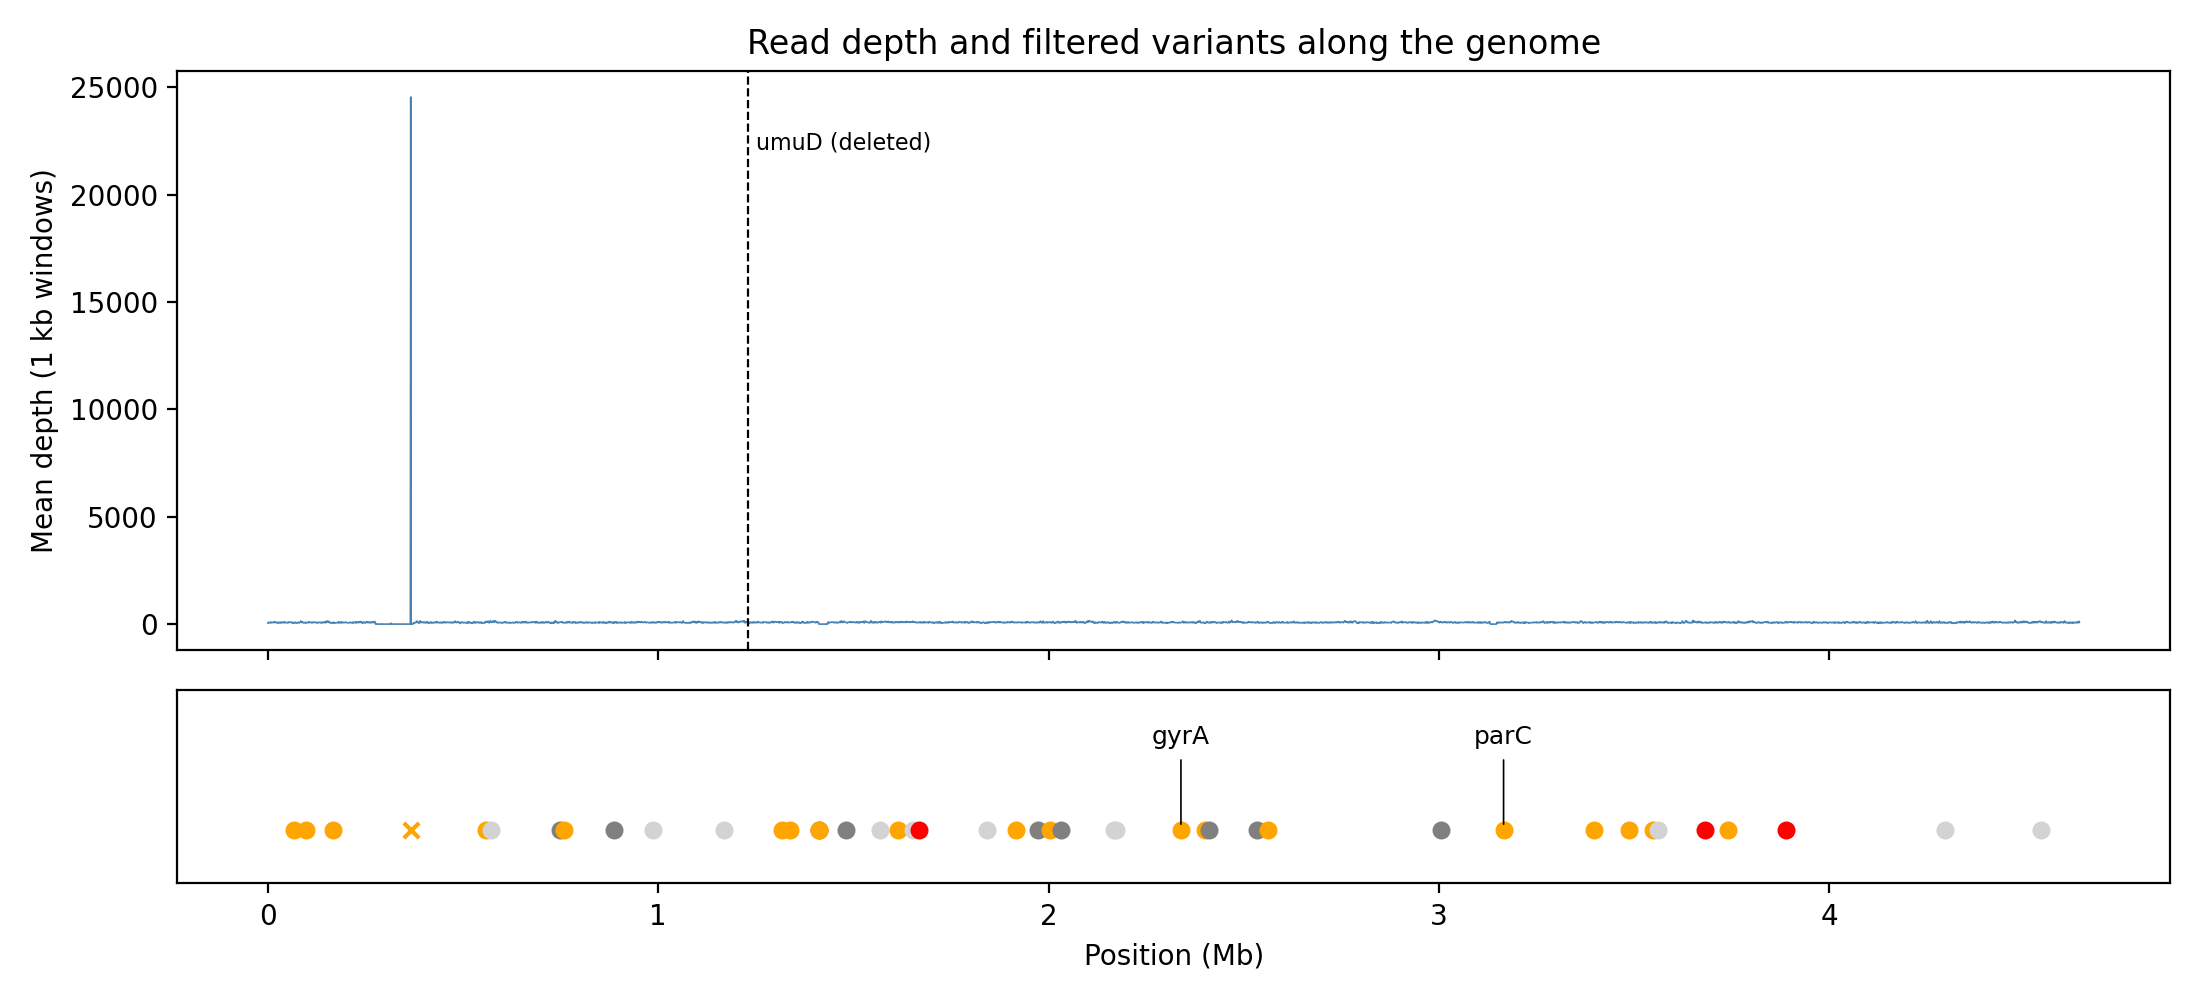
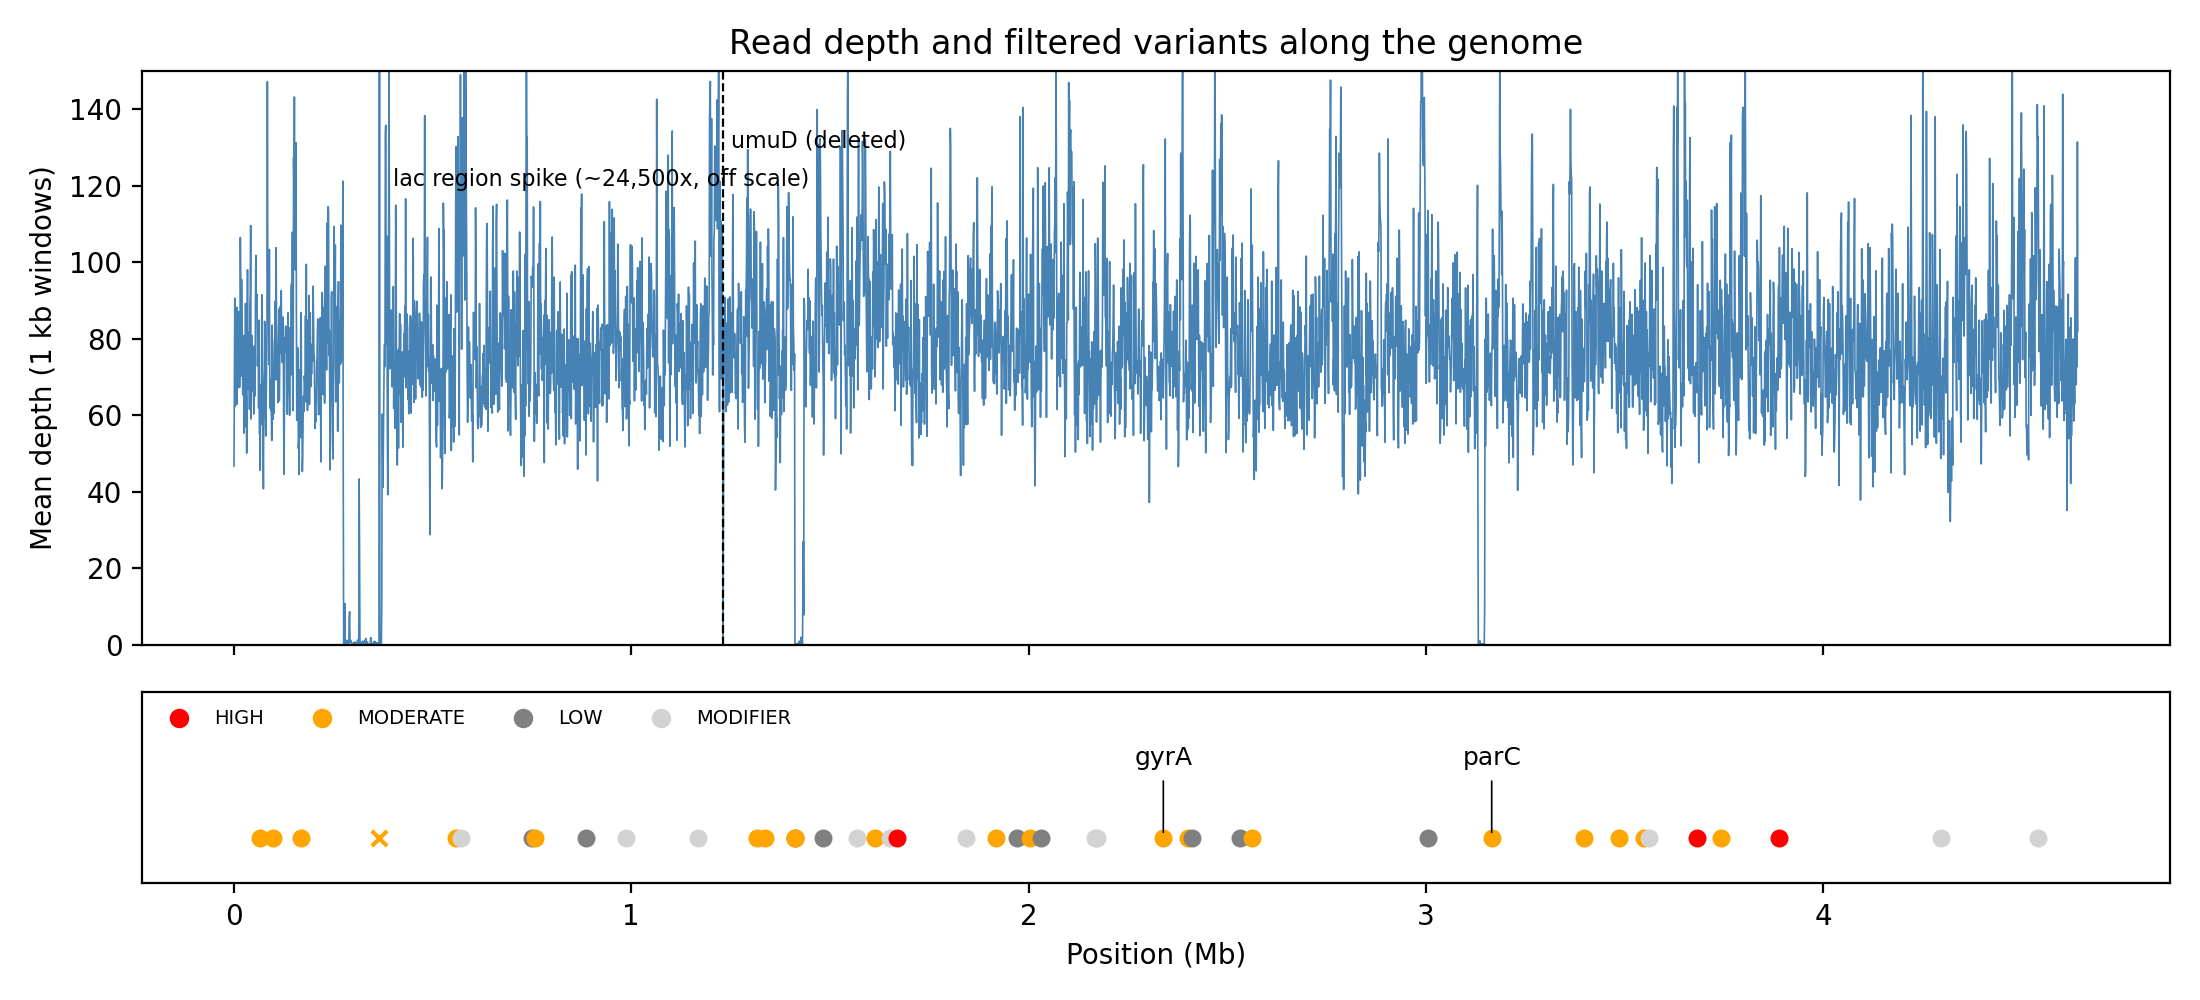
Add figures and fix genome overview

diff --git a/scripts/make_figures.py b/scripts/make_figures.py
@@ -24,7 +24,9 @@ fig, (a1, a2) = plt.subplots(2, 1, figsize=(11, 5), sharex=True,
                              gridspec_kw={"height_ratios": [3, 1]})
 a1.plot(cov["start"] / 1e6, cov["depth"], lw=0.6, color="steelblue")
 a1.axvline(1.230767, ls="--", color="black", lw=0.8)
-a1.text(1.25, cov["depth"].max() * 0.9, "umuD (deleted)", fontsize=8)
+a1.text(1.25, 130, "umuD (deleted)", fontsize=8)
+a1.set_ylim(0, 150)
+a1.text(0.40, 120, "lac region spike (~24,500x, off scale)", fontsize=8)
 a1.set_ylabel("Mean depth (1 kb windows)")
 a1.set_title("Read depth and filtered variants along the genome")
 
@@ -35,7 +37,10 @@ for _, r in v.iterrows():
 for _, r in v[v["GENE"].isin(["gyrA", "parC"])].iterrows():
     a2.annotate(r["GENE"], (r["POS"] / 1e6, 0), xytext=(r["POS"] / 1e6, 0.8),
                 ha="center", fontsize=9, arrowprops=dict(arrowstyle="-", lw=0.6))
-a2.set_ylim(-0.5, 1.3)
+from matplotlib.lines import Line2D
+h = [Line2D([0],[0], marker="o", ls="", color=c, label=k) for k, c in colors.items()]
+a2.legend(handles=h, loc="upper left", ncol=4, fontsize=7, frameon=False)
+a2.set_ylim(-0.5, 1.6)
 a2.set_yticks([])
 a2.set_xlabel("Position (Mb)")
 fig.tight_layout()

diff --git a/NOTES.md b/NOTES.md
@@ -8,3 +8,4 @@ Day 1: setup
 - Day 5: annotated variants with SnpEff (custom MG1655 database built from GenBank file)
 - TODO: read the Rum pol paper (Jaszczur et al., NAR 2024) and compare gyrA/parC with my results
 - Day 7: figures (variants by effect, genome overview with depth, variant support) made with Python
+- Day 7: figures made; depth spike near lacZ (~24,500x) explains the flagged artifact
